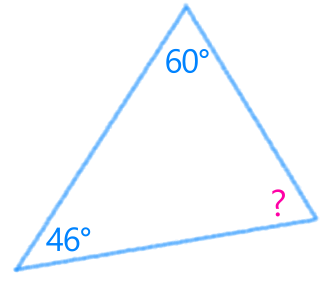
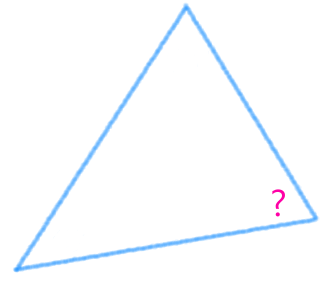
dynamic: Winkel

Changed region(s): [[0.4762, 0.1552, 0.625, 0.2483], [0.119, 0.7759, 0.2679, 0.869]]

diff --git a/lib/stories/08-winkel.tsx b/lib/stories/08-winkel.tsx
@@ -1,19 +1,41 @@
-import { ignoreCaseSolution } from '../data'
+import { ignoreCaseSolution, ignoreCaseSolutionWithGenData } from '../data'
+import { randomIntBetween } from '../helper/random-int-between'
 import { StoryData } from '../types'
 
-export const story8: StoryData = {
+interface DATA {
+  missing: number
+  a: number
+  b: number
+}
+
+export const story8: StoryData<DATA> = {
   title: 'Winkel',
   x: 510,
   y: 310,
   deps: [10, 27],
-  render: () => (
+  generator: () => {
+    const missing = randomIntBetween(63, 81)
+    const t = 180 - missing
+    const a = randomIntBetween(Math.floor(t * 0.55), Math.ceil(t * 0.65))
+    const b = t - a
+    return { missing, a, b }
+  },
+  render: ({ data }) => (
     <>
       <p>
-        Teo ist erst in der 1. Klasse. Ich konnte ihm bereits beibringen, wie
-        man mit dem Geo-Dreieck Winkel misst. In diesem Dreieck hat er schon
-        zwei Winkel gemessen.
+        Teo fragt mich, was das Wort &quot;Winkel&quot; bedeutet. Ich erkläre
+        das sehr gerne und zeige ihm auch, wie man Winkel mit dem Geodreieck
+        misst. In diesem Dreieck haben wir bereits zwei Winkel gemessen.
       </p>
-      <img src="story8.png" alt="Ein Dreieck mit Innenwinkel 46 und 60 Grad" />
+      <div className="relative mt-4">
+        <img src="story8.png" alt="Ein Dreieck mit Innenwinkel eingezeichnet" />
+        <div className="absolute top-[43px] left-[170px] text-2xl text-blue-700">
+          {data.a}°
+        </div>
+        <div className="absolute top-[222px] left-[50px] text-2xl text-blue-700">
+          {data.b}°
+        </div>
+      </div>
       <p>
         Ich habe in der Schule gelernt, dass die Summe der drei Winkel eines
         Dreiecks immer 180 Grad beträgt. Damit möchte ich ihn überraschen. Ich
@@ -21,13 +43,13 @@ export const story8: StoryData = {
         flüstere ihm das Ergebnis.
       </p>
       <p>
-        Nachdem Teo den Winkel gemessen hat, ist er ganz erstaunt wie genau ich
-        den Winkel geschätzt habe. Dabei habe ich gar nicht schätzen müssen,
+        Nachdem wir den Winkel gemessen haben, ist er ganz erstaunt wie genau
+        ich den Winkel geschätzt habe. Dabei habe ich gar nicht schätzen müssen,
         sondern konnte den Winkel ausrechnen. Wie groß ist der fehlende Winkel?
       </p>
     </>
   ),
-  proof: () => (
+  proof: ({ data }) => (
     <>
       <p>
         In der Aufgabe ist der mathematische Satz angegeben, mit dem du diese
@@ -35,10 +57,27 @@ export const story8: StoryData = {
       </p>
       <p>
         Rechne{' '}
-        <strong>180°&nbsp;-&nbsp;60°&nbsp;-&nbsp;46°&nbsp;=&nbsp;74°</strong>{' '}
+        <strong>
+          180°&nbsp;-&nbsp;{data.a}°&nbsp;-&nbsp;{data.b}°&nbsp;=&nbsp;
+          {data.missing}°
+        </strong>{' '}
         und erhalte das Ergebnis.
       </p>
-      <img src="story8_sol.png" alt="Lösung" />
+      <div className="relative mt-4">
+        <img
+          src="story8_sol.png"
+          alt="Ein Dreieck mit Innenwinkel eingezeichnet"
+        />
+        <div className="absolute top-[43px] left-[170px] text-2xl text-blue-700">
+          {data.a}°
+        </div>
+        <div className="absolute top-[222px] left-[50px] text-2xl text-blue-700">
+          {data.b}°
+        </div>
+        <div className="absolute top-[188px] left-[250px] text-2xl text-pink-700">
+          {data.missing}°
+        </div>
+      </div>
       <p>
         Die Mathematik hat zwei Seiten - erstens kann man vorhandene Sätze
         anwenden und damit Ergebnisse berechnen. Das macht Spaß.
@@ -56,5 +95,9 @@ export const story8: StoryData = {
       </p>
     </>
   ),
-  submit: ignoreCaseSolution('74', ['74°', '74 grad']),
+  submit: ignoreCaseSolutionWithGenData<DATA>((data) => [
+    data.missing.toString(),
+    data.missing.toString() + '°',
+    data.missing.toString() + 'grad',
+  ]),
 }
